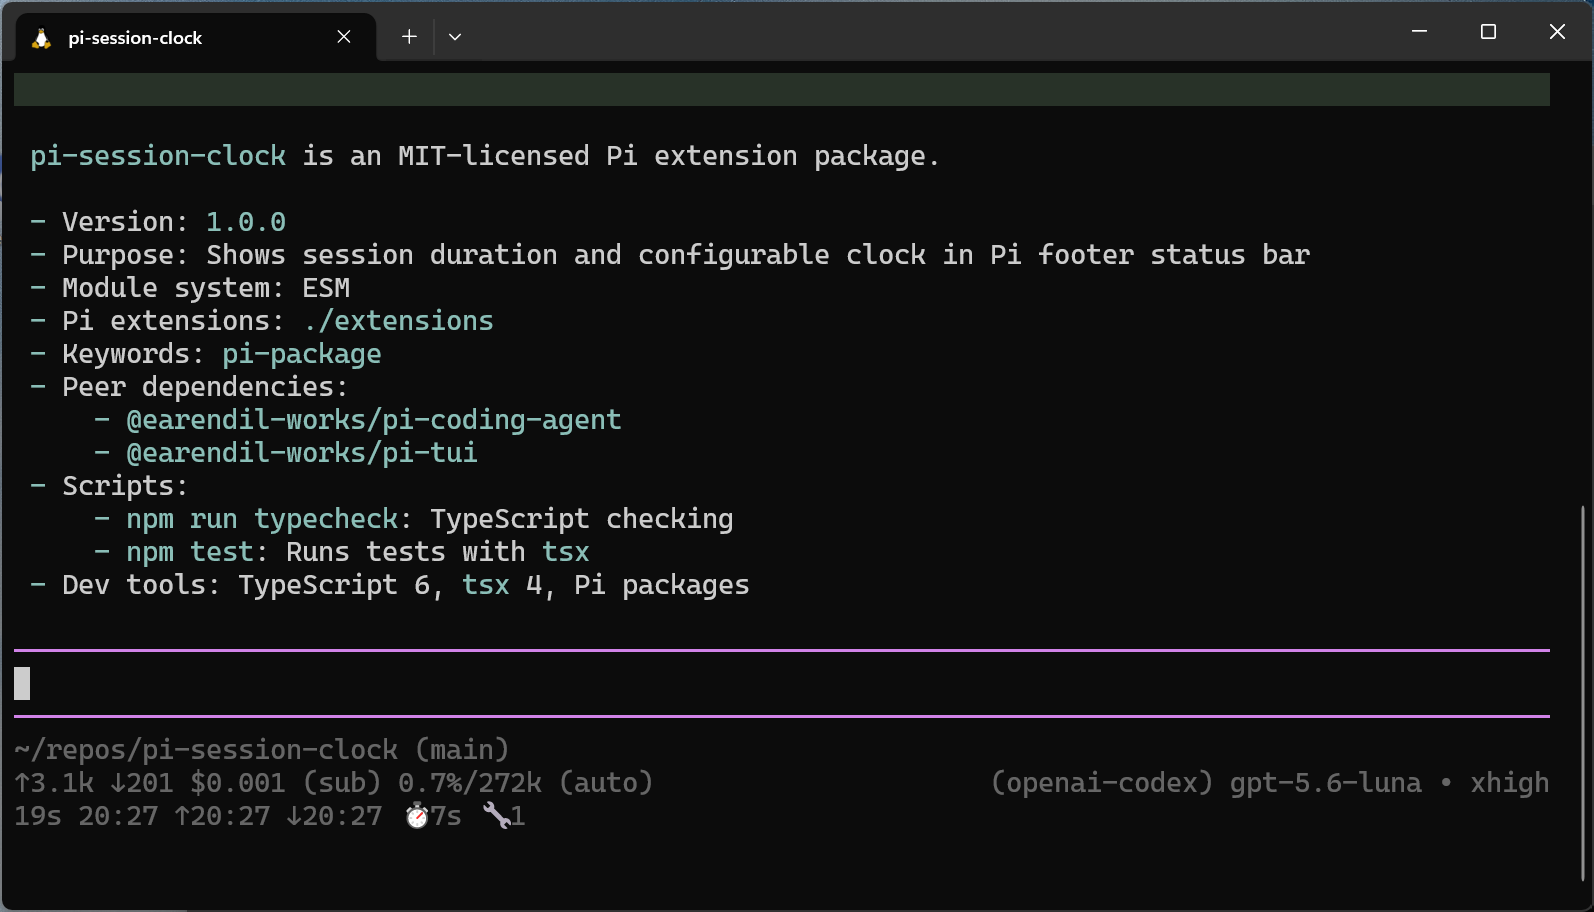
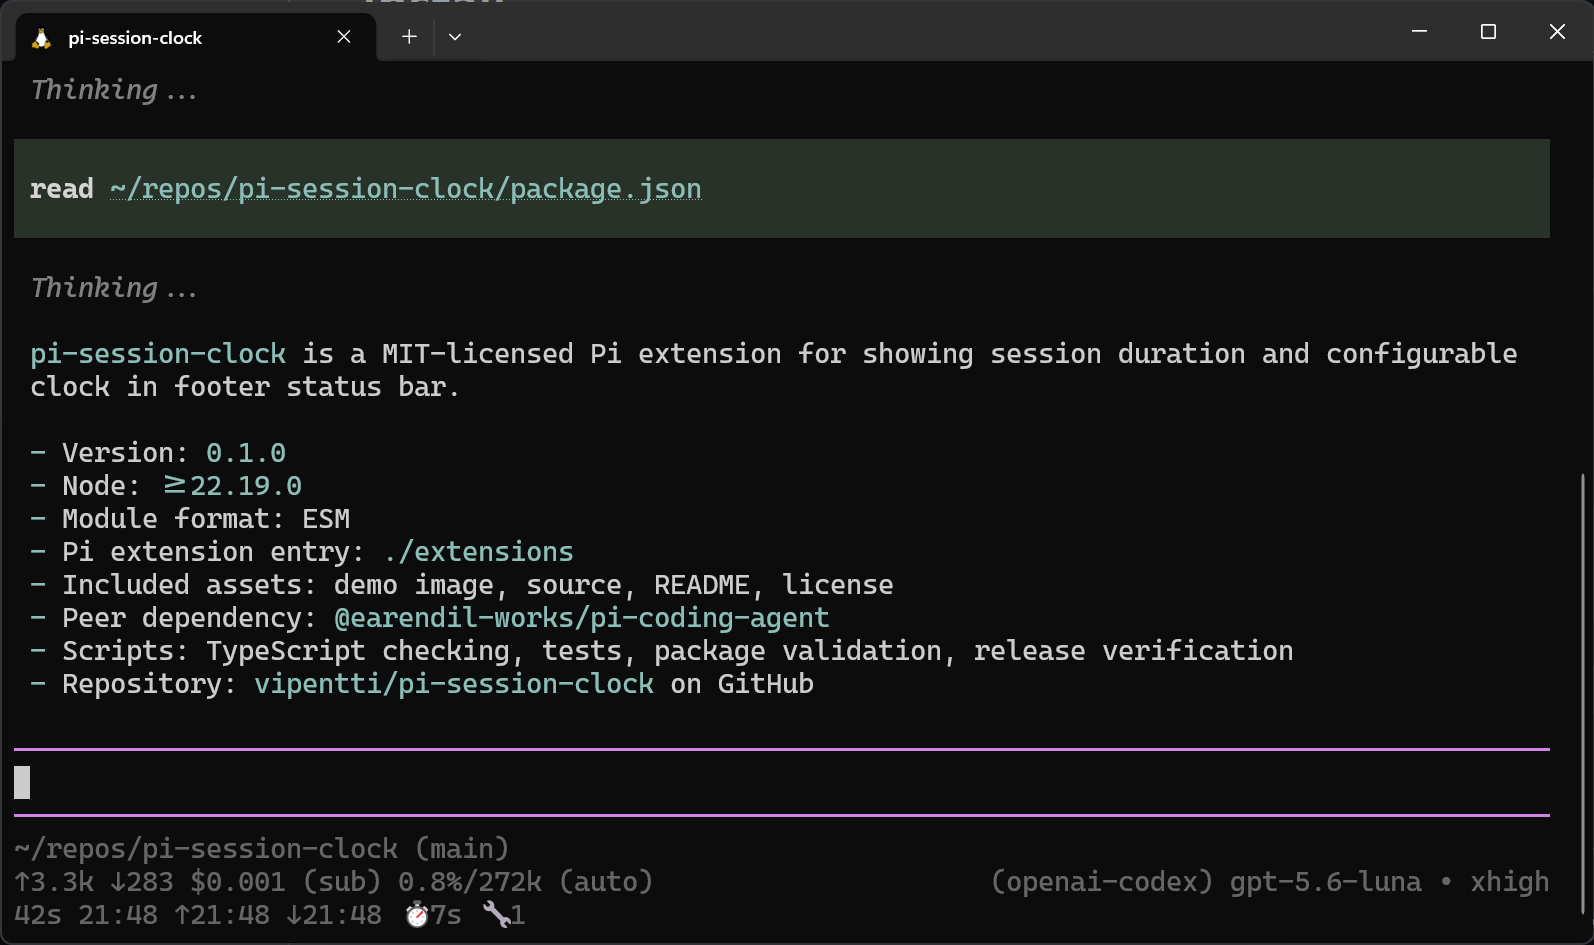
docs: use absolute demo image URLs (#9)
## Summary
- use absolute demo image URL in Pi gallery metadata and README
- remove installation version pin examples
- record documentation changes in changelog

## Validation
- npm run release:verify

diff --git a/README.md b/README.md
@@ -2,7 +2,7 @@
 
 Pi extension: session duration + configurable clock in the footer status bar.
 
-![pi-session-clock in action](assets/demo.png)
+![pi-session-clock in action](https://raw.githubusercontent.com/vipentti/pi-session-clock/main/assets/demo.png)
 
 ## Install
 
@@ -12,15 +12,11 @@ Install from npm:
 pi install npm:pi-session-clock
 ```
 
-Pin a published version with `pi install npm:pi-session-clock@1.0.0`.
-
 Alternatively, install directly from GitHub:
 
 ```bash
 pi install git:github.com/vipentti/pi-session-clock
 ```
-
-Pin a GitHub release with `pi install git:github.com/vipentti/pi-session-clock@v1.0.0`.
 
 ## What it does
 

diff --git a/CHANGELOG.md b/CHANGELOG.md
@@ -6,6 +6,11 @@ Format is based on [Keep a Changelog](https://keepachangelog.com/en/1.1.0/), and
 
 ## [Unreleased]
 
+### Changed
+
+- Removed version pin examples from installation instructions.
+- Use absolute demo image URLs in package metadata and README.
+
 ## [0.1.0] - 2026-08-19
 
 ### Added
